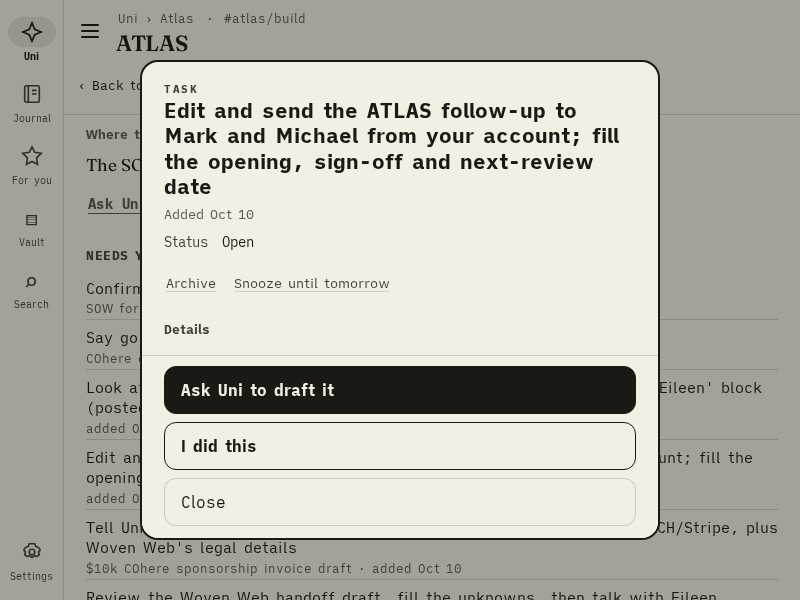
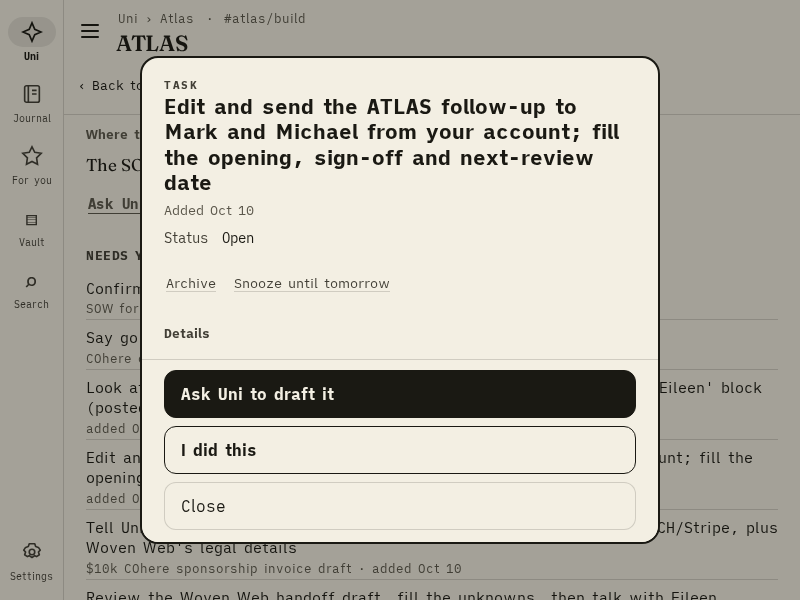
r23: specs: the tree beside the room doesn't repeat the freshness line; the steward room as the rooms list names it (T-124 r23)

Changed region(s): [[0.1562, 0.54, 0.8438, 0.93], [0.1562, 0.09, 0.8438, 0.36], [0.1875, 0.39, 0.3125, 0.42]]

diff --git a/scripts/browser/simple.spec.ts b/scripts/browser/simple.spec.ts
@@ -1344,7 +1344,8 @@ test.describe('simple', () => {
     await expect(stale).toContainText("Couldn't refresh");
     await expect(stale).toContainText(/\d+ as of \d{1,2}:\d{2}/); // r15: the kept count, as of its read
     await expect(page.locator('.cp-item').filter({ hasText: 'SOW for the commons grant' })).toBeVisible();
-    if (wide(page)) await expect(scope(page).locator('.lh')).toContainText("Couldn't refresh");
+    // r23: one freshness line at a time: beside the room, the companion says it and the tree doesn't
+    if (wide(page)) await expect(scope(page).locator('.lh-line').filter({ hasText: "Couldn't refresh" })).toHaveCount(0);
     await page.evaluate(() => { (window as any).__queryFails = []; });
     await stale.getByRole('button', { name: 'Retry' }).click();
     await expect(stale).toHaveCount(0);
@@ -3792,11 +3793,12 @@ test.describe('r23', () => {
     await expect(sheet.getByRole('button', { name: 'Ask Uni to draft it' })).toHaveCount(0);
     await sheet.getByRole('button', { name: 'Close' }).click();
     // nothing stored: the row asks the room for it, and its sheet puts the request in the room's composer (never sent)
-    const ask = rowOf(page, 'Ask #techne for the message');
-    await expect(ask.locator('.cp-lead')).toHaveText('Ask #techne for the message');
+    // (the room that stewards Techne, named as the rooms list names it)
+    const ask = page.locator('.sr-work .cp-item').filter({ hasText: /Ask #techne for the message/i });
+    await expect(ask.locator('.cp-lead')).toHaveText(/^Ask #techne for the message$/i);
     await ask.locator('.cp-need').click();
-    await expect(sheetOf(page).locator('h2')).toHaveText('Ask #techne for the message');
-    await expect(sheetOf(page).locator('.task-do.primary')).toHaveText(/^Ask in #techne ›$/);
+    await expect(sheetOf(page).locator('h2')).toHaveText(/^Ask #techne for the message$/i);
+    await expect(sheetOf(page).locator('.task-do.primary')).toHaveText(/^Ask in #techne ›$/i);
     await expect(sheetOf(page).locator('.task-detail')).toHaveCount(0);
   });
 
@@ -3811,11 +3813,14 @@ test.describe('r23', () => {
       await rowOf(page, 'Send Ryan the deploy-access message').locator('.cp-need').click();
       const sheet = sheetOf(page);
       await expect(sheet.locator('.task-asked')).toBeVisible();
-      for (const end of [0, 99999]) {
-        await sheet.locator('.task-body').evaluate((el, y) => el.scrollTo(0, y), end);
-        const under = await sheet.evaluate((d) => { const f = d.querySelector('.task-foot')!.getBoundingClientRect(); return [...d.querySelectorAll('.task-asked, .task-movedon, .task-q-note, .task-cut, .task-gone')].filter((c) => { const q = c.getBoundingClientRect(); return q.height > 0 && q.bottom > f.top + 0.5 && q.top < f.bottom; }).map((c) => c.className); });
-        expect(under, `${w}×${h} at scroll ${end}`).toEqual([]);
-      }
+      // when it was asked and the moved-on cue lead the sheet: whole and in view at once, above the footer
+      await expect(sheet.locator('.task-asked')).toBeInViewport({ ratio: 1 });
+      const [cue, foot0] = [await sheet.locator('.task-asked').boundingBox(), await sheet.locator('.task-foot').boundingBox()];
+      expect(cue!.y + cue!.height, `${w}×${h}`).toBeLessThanOrEqual(foot0!.y);
+      // scrolled to its end, the body's last line is above the footer too
+      await sheet.locator('.task-body').evaluate((el) => el.scrollTo(0, 99999));
+      const lastBox = await sheet.locator('.task-body > *:last-child').boundingBox();
+      expect(lastBox!.y + lastBox!.height, `${w}×${h} scrolled`).toBeLessThanOrEqual(foot0!.y + 1);
       // the footer is not drawn over the body: the body ends where the footer starts
       const [body, foot] = [await sheet.locator('.task-body').boundingBox(), await sheet.locator('.task-foot').boundingBox()];
       expect(body!.y + body!.height).toBeLessThanOrEqual(foot!.y + 0.5);
